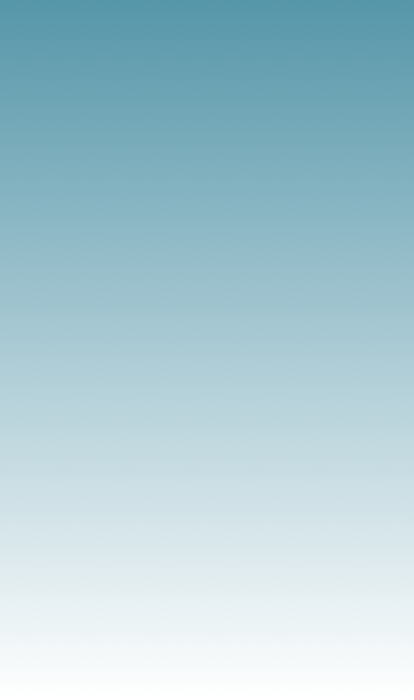
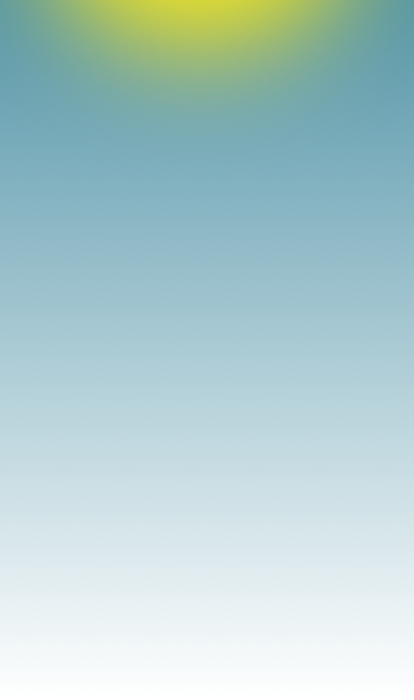
backgrounds

Changed region(s): [[0.058, 0.0, 0.9275, 0.15]]

diff --git a/sketch.js b/sketch.js
@@ -17,8 +17,8 @@ var img2;
 
 function preload() {
     img = loadImage('assets/background_clear.png');
-    img1 = loadImage('assets/background_clouds.png');
-    img2 = loadImage('assets/background_night.png');
+    img1 = loadImage('assets/background_light_clouds.png');
+    img2 = loadImage('assets/background_clouds.png');
   }
 
 function setup() {
@@ -41,12 +41,16 @@ function setup() {
 
 function draw() {
     
-    if (cloud<49){
+    if (cloud<20){
       image(img, 0,0, width, height);
     }
 
-    if (cloud>=49){
+    if (cloud<49){
       image(img1, 0,0, width, height);
+    }
+
+    if (cloud>=49){
+      image(img2, 0,0, width, height);
     }
     
     drawPosition0();
